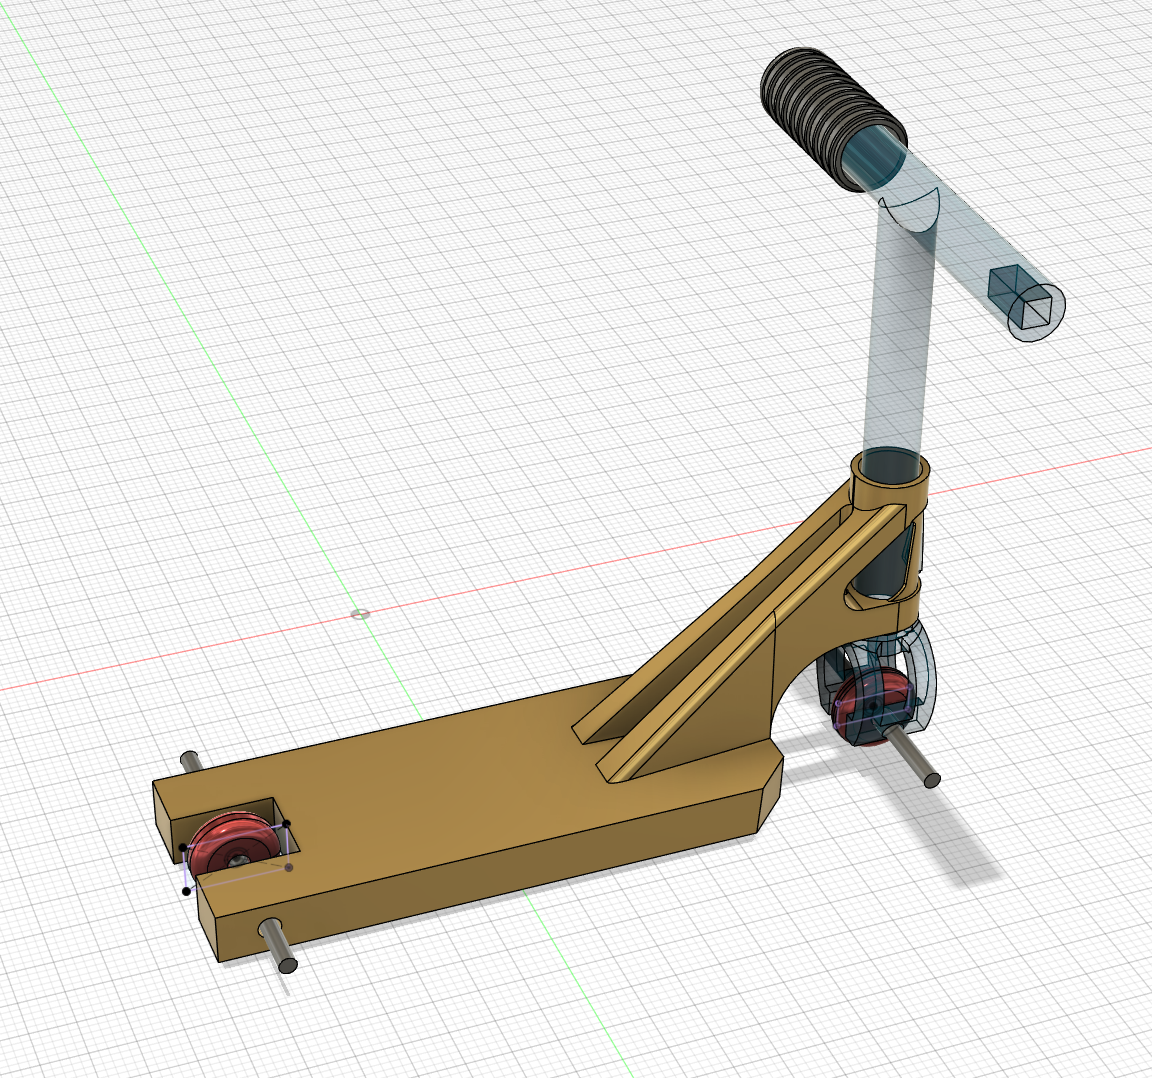
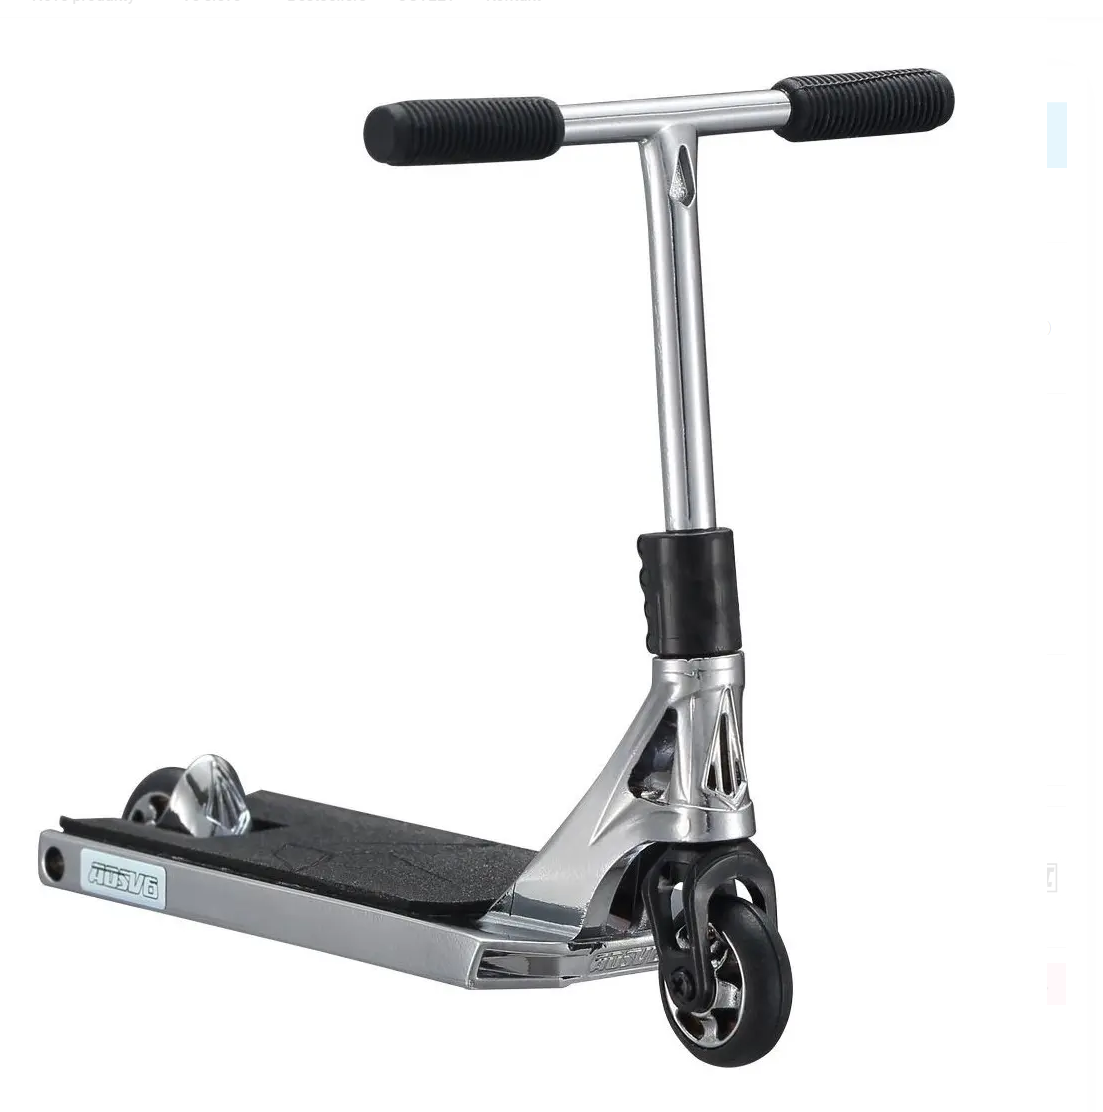
,

diff --git a/portfolio/blocks/blok_1-2/postup/finger.md b/portfolio/blocks/blok_1-2/postup/finger.md
@@ -3,6 +3,15 @@
 - zde jsem modeloval podle obrázku bez většího vědomí parametrů a možnosti měření
 
 ![error](../2/finger/1.png)
+*Referenční obrázek*
+
+![error](../2/finger/2.png)
+*1. model s "klientem"*
+
+![error](../2/finger/3.png)
+*Finální produkt*
+
+
 
 
 